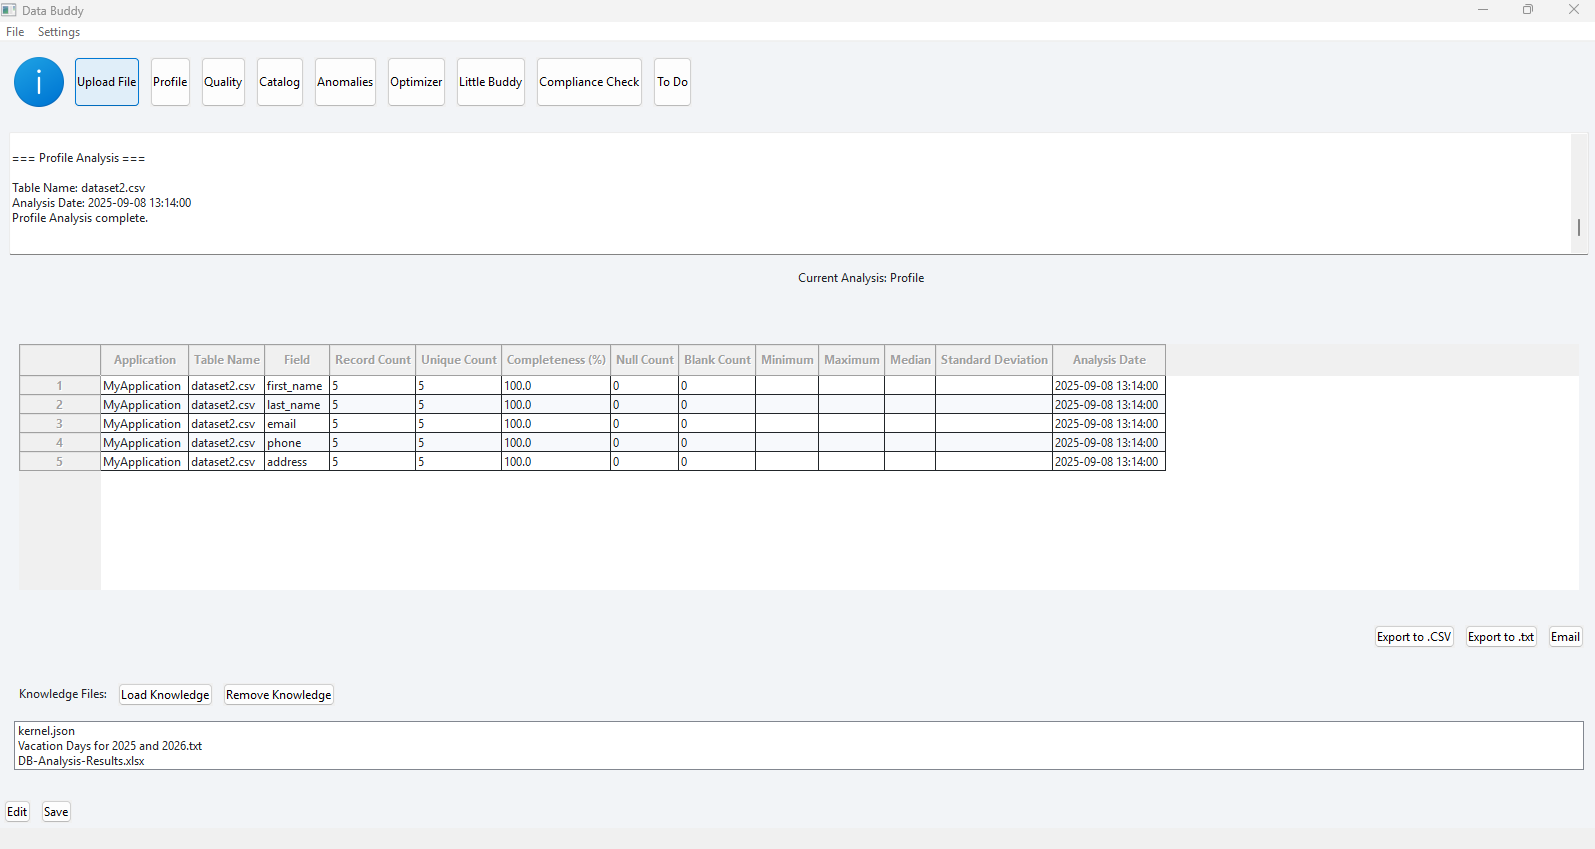
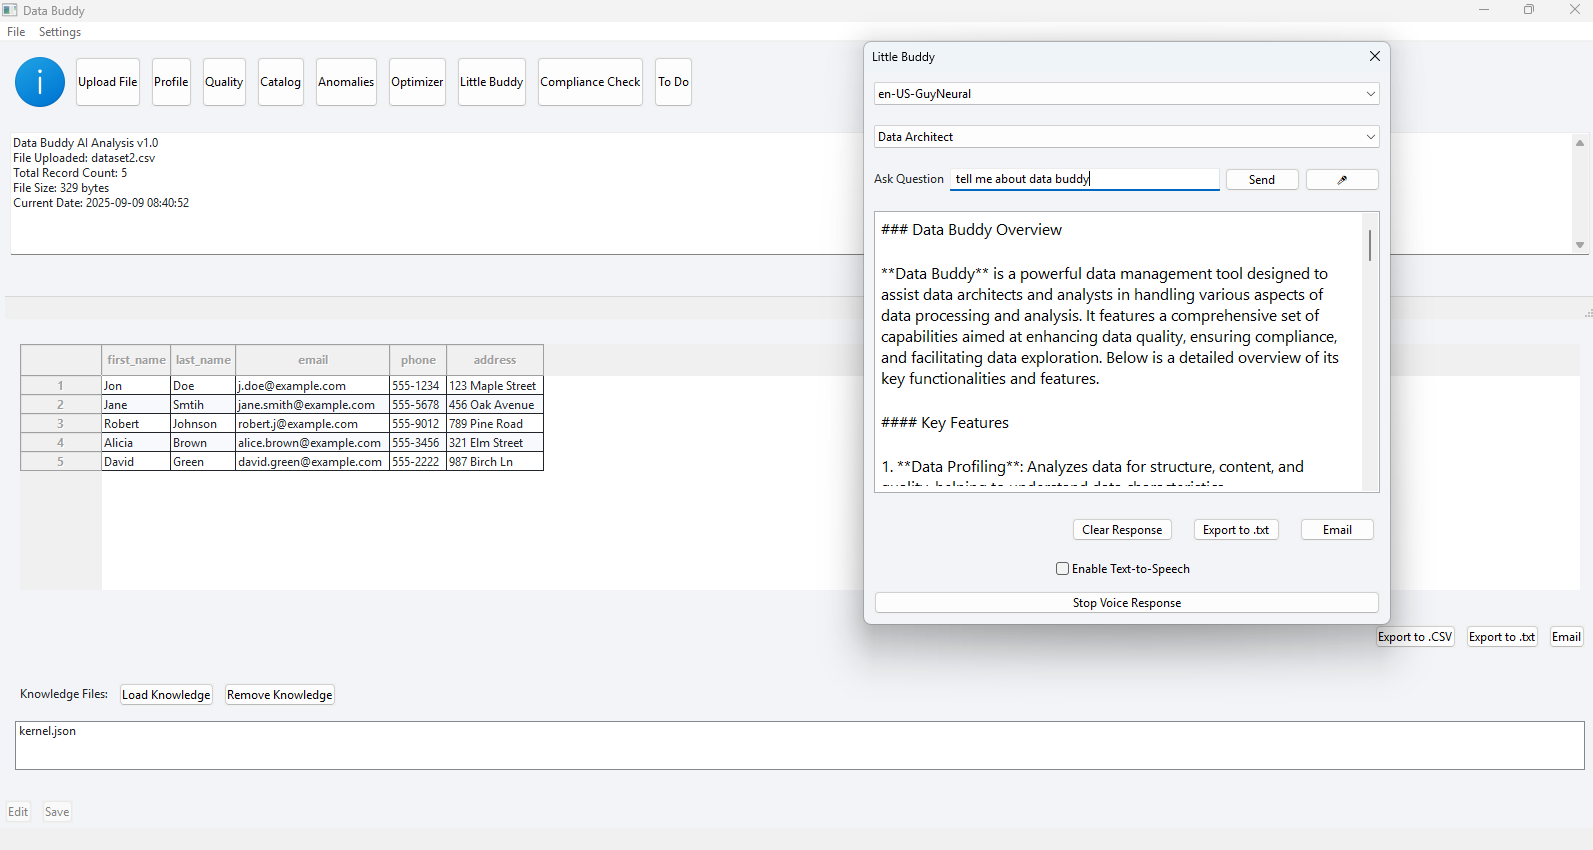
mainbuttons

diff --git a/docs/data-buddy/index.md b/docs/data-buddy/index.md
@@ -2,6 +2,32 @@
 
 A collection of utilities that speed up day-to-day data work across **profiling, quality, cataloging, anomalies, compliance, automation, conversational AI**, and **knowledge files**.
 
+---
+
+## Data Buddy Overview
+
+**Data Buddy** is more than a toolkit — it’s a smart, AI-enhanced data companion.  
+It performs profiling, quality checks, cataloging, anomaly detection, compliance validation, workflow automation, and more.  
+It also **understands its own capabilities** and keeps a **log of actions**. Thanks to an embedded **kernel** that persists features used and interactions at each run, Data Buddy can **suggest relevant enhancements** to its functionality over time and adapt to evolving team needs — optimizing workflows and reducing manual effort.
+
+---
+
+## User Interface
+
+Below is a screenshot of the **Data Buddy UI**, showing compliance checks, knowledge file integration, and the “Little Buddy” assistant:
+
+![Data Buddy UI](../_assets/dbui.png)
+
+---
+
+## AI in Everyday Tasks
+
+Data Buddy integrates intelligent assistance directly into daily work — **recommending improvements, automating task sequences, and optimizing outputs** without exposing sensitive code or requiring external AI services.
+
+![AI Everyday Tasks](../_assets/ai-everyday.png)
+
+---
+
 ## Quick links
 
 - [:material-chart-bar: Data Profiling](data-profiling.md)
@@ -12,6 +38,8 @@ A collection of utilities that speed up day-to-day data work across **profiling,
 - [:material-cog-sync: Workflow Automation](workflow-automation.md)
 - [:material-robot-excited: Conversational AI](conversational-ai.md)
 - [:material-file-document: Knowledge Files](knowledge-files.md)
+
+---
 
 ## Quickstart
 
